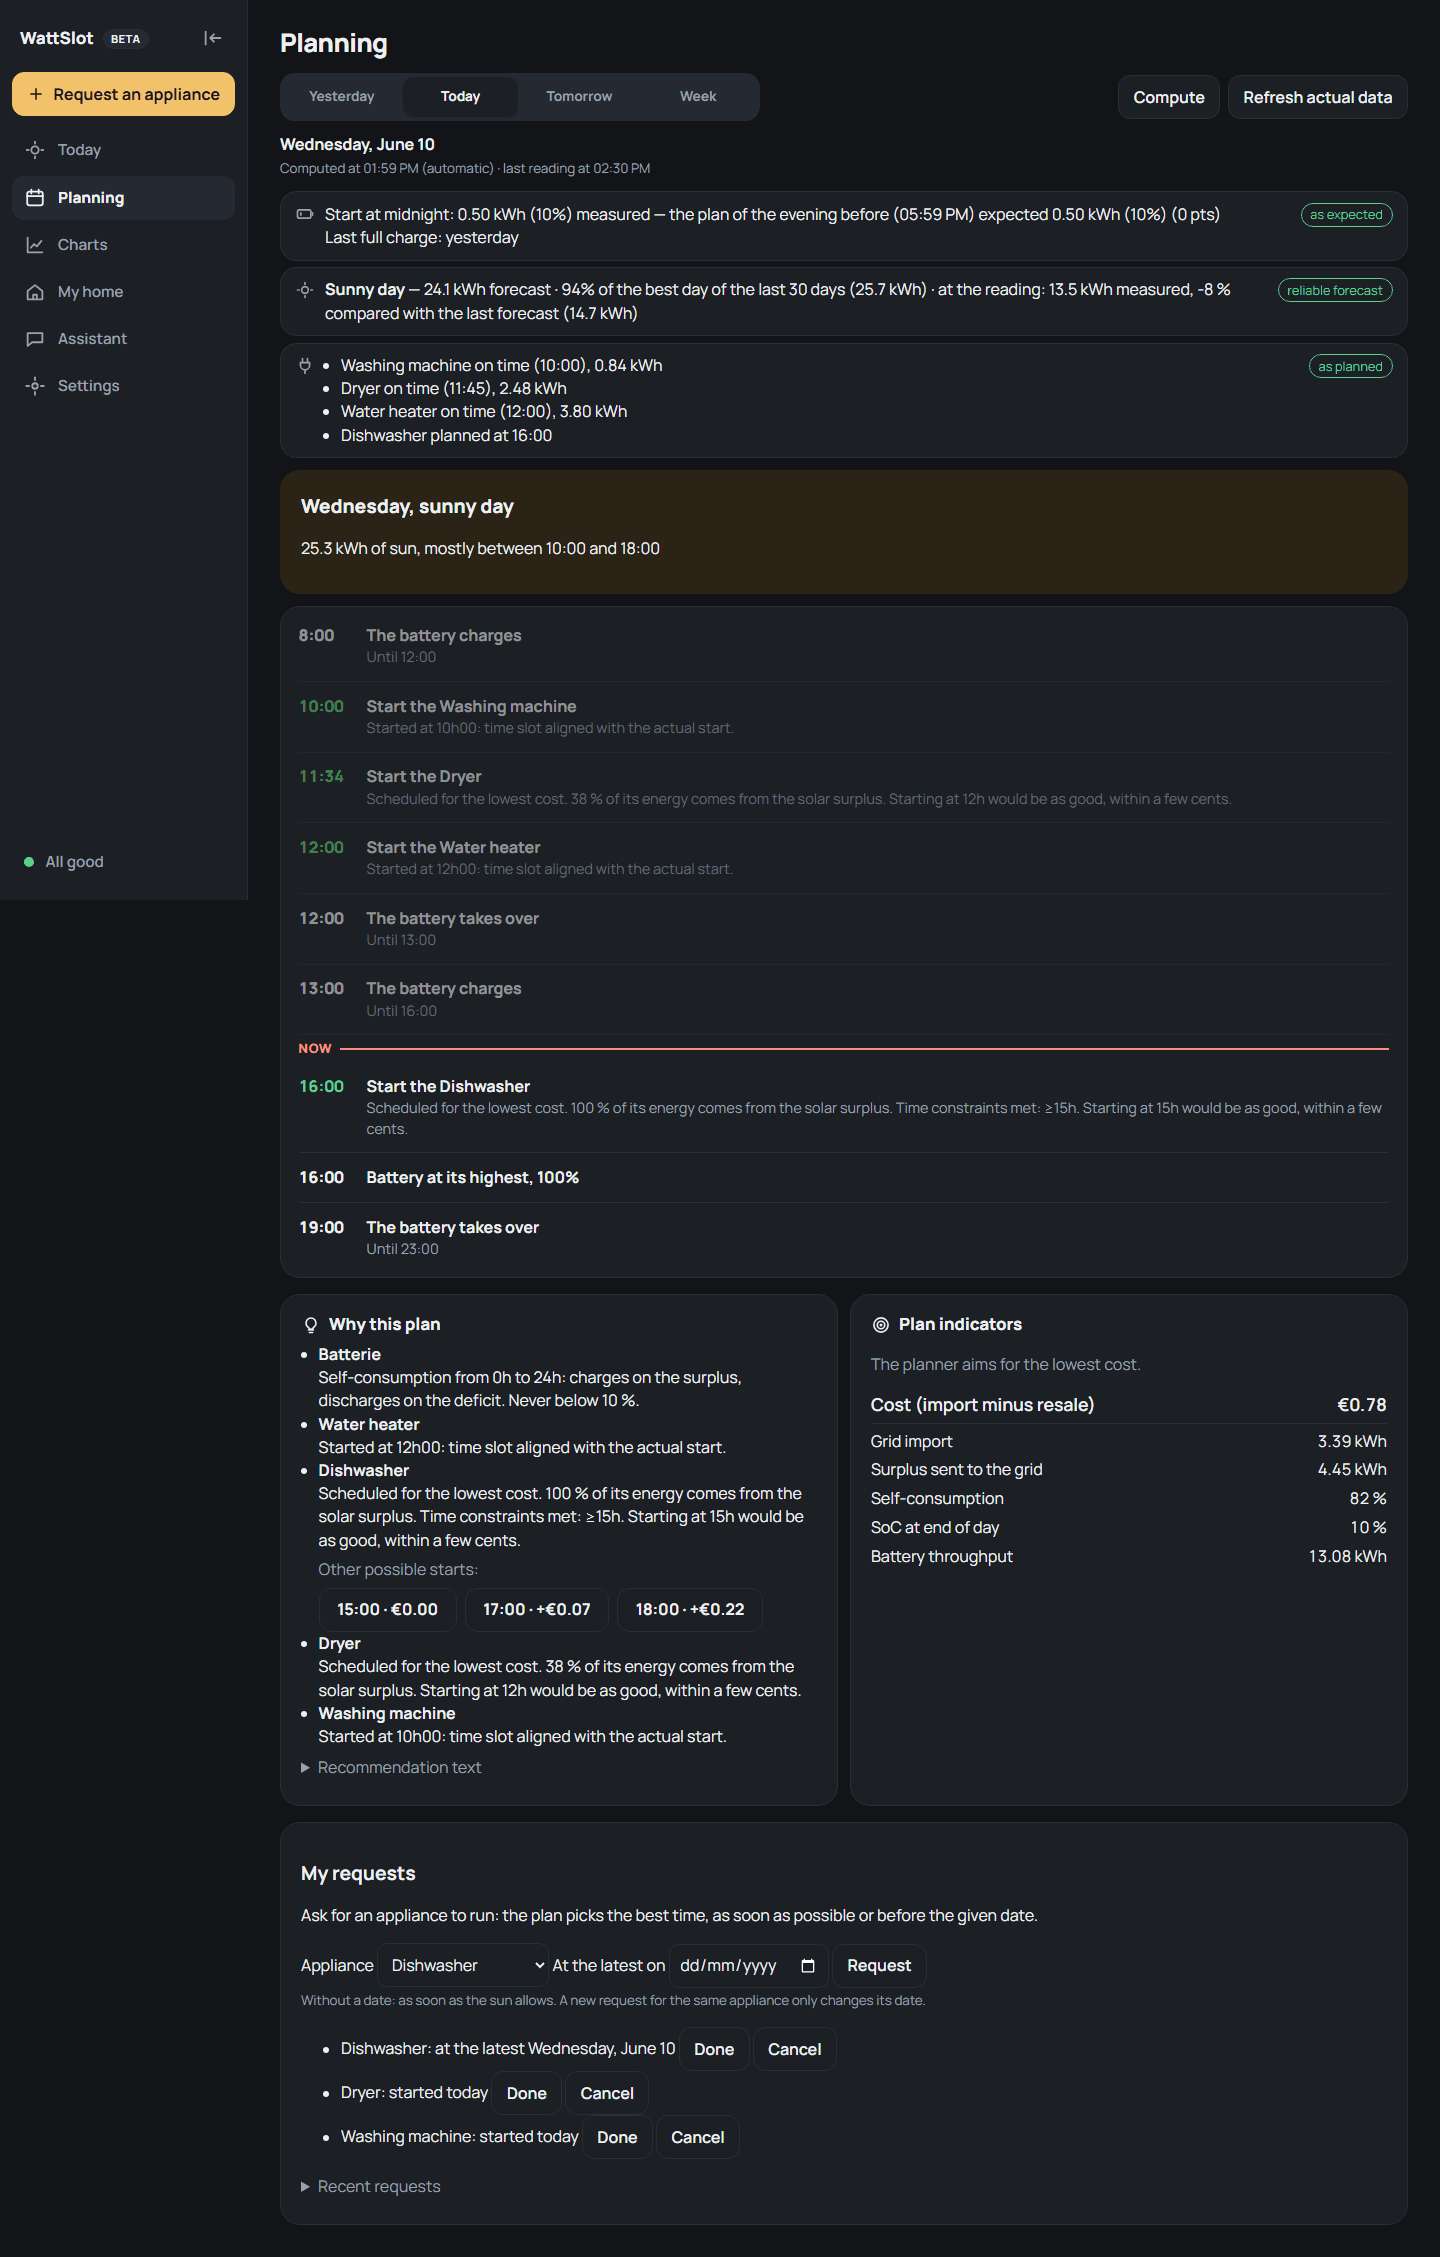
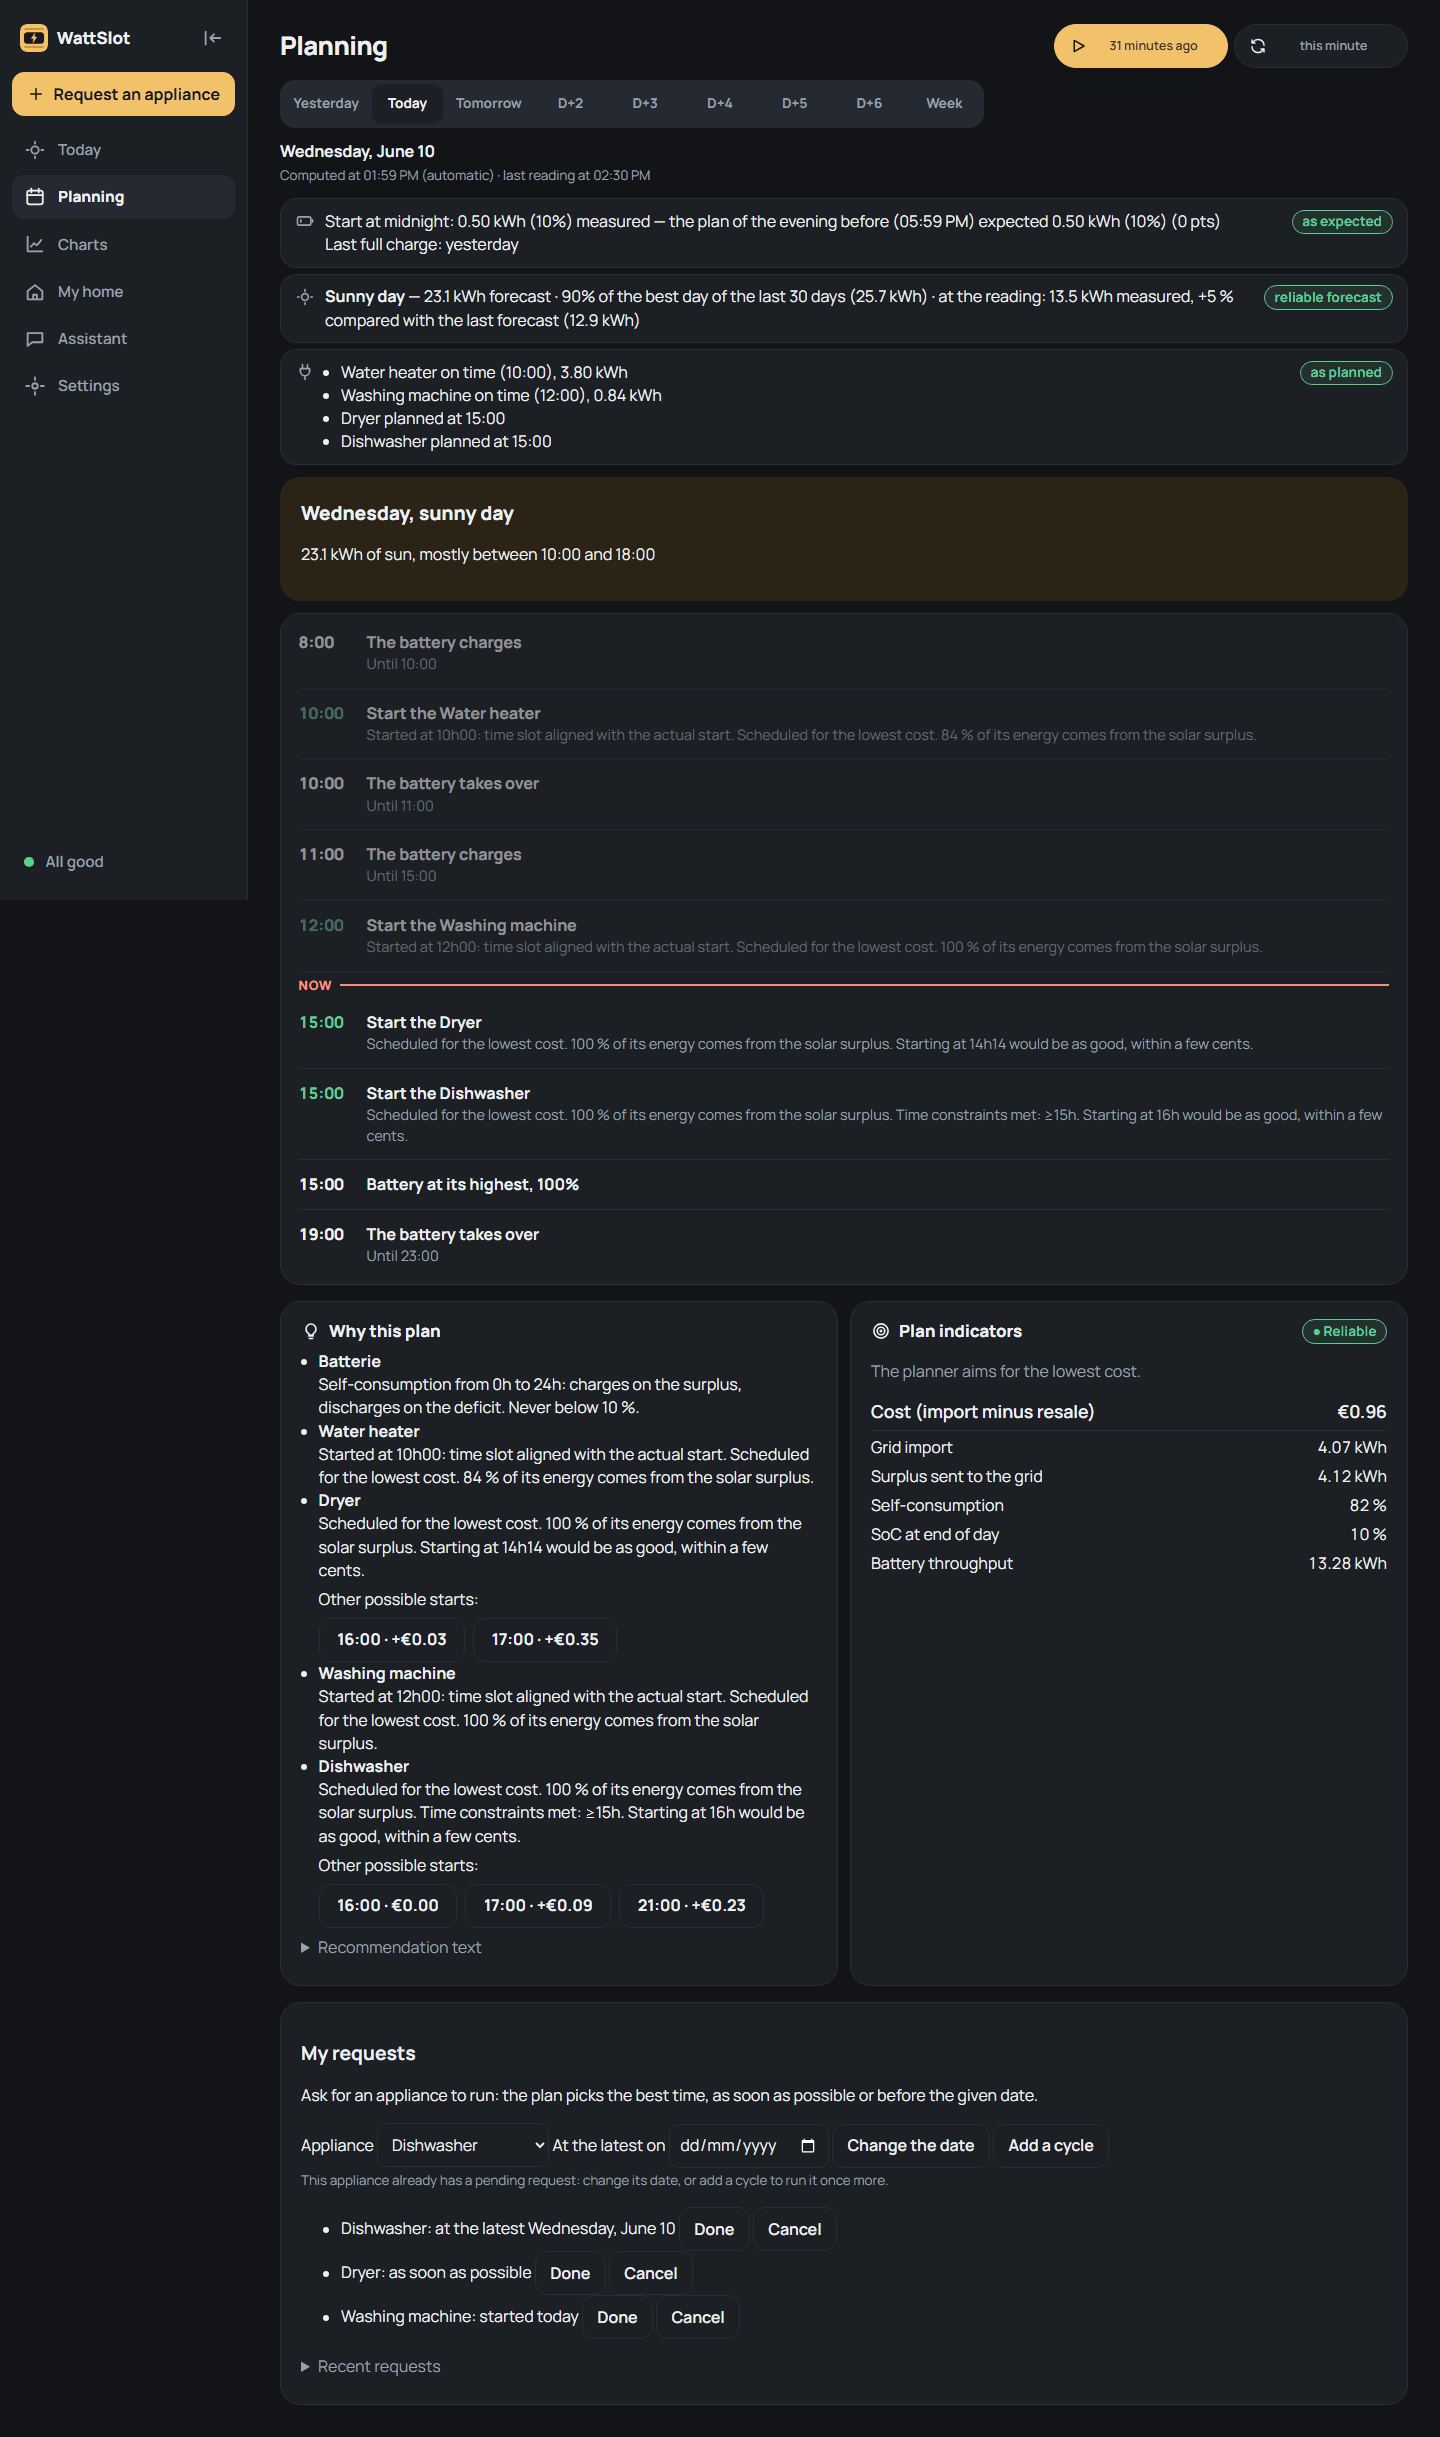
Icône « Créneau inversé » et fin de la mention bêta dans l'identité
Nouvelle icône pour la 1.0.0 : fond doré, deux pistes du Planning des
équipements, le créneau sombre au centre et un grand éclair doré, lisible
jusqu'à 16 px. Elle remplace l'ancienne dans le favicon, l'icône et le
logo de l'extension Home Assistant (dev/tools/addon_images.py) et les
quatre bannières du dépôt, et apparaît à gauche de « WattSlot » en tête
du menu.

« BETA » disparaît des bannières (et de leur texte alternatif dans les
README) et du menu (badge et texte « nav.beta » des six catalogues).
Captures du guide refaites.

diff --git a/app/frontend/src/styles.css b/app/frontend/src/styles.css
@@ -1864,9 +1864,17 @@ a.ui-setting-row {
   }
 
   .main-menu-brand {
+    display: inline-flex;
+    align-items: center;
+    gap: 0.55rem;
     font-weight: 800;
     font-size: 1.05rem;
     padding-left: 0.5rem;
+  }
+
+  .main-menu-logo {
+    flex: none;
+    border-radius: 0.45rem;
   }
 
   .main-menu ul {
@@ -2649,23 +2657,8 @@ p[role="status"]:not(.state-message) {
   overflow-x: auto;
 }
 
-/* Bêta publique (0.9.1) : étiquette à côté du nom, cartes « Version bêta » et « Soutenir
-   WattSlot » en bas des Réglages. */
-.beta-badge {
-  display: inline-block;
-  margin-left: 0.35rem;
-  padding: 0.05rem 0.45rem;
-  border: 1px solid var(--border);
-  border-radius: 999px;
-  background: var(--surface-alt);
-  font-size: 0.7rem;
-  font-weight: 700;
-  letter-spacing: 0.04em;
-  text-transform: uppercase;
-  vertical-align: middle;
-}
-
-/* « Donner mon avis » : un lien qui a l'air d'un bouton, sans soulignement. */
+/* Cartes « Version bêta » et « Soutenir WattSlot » en bas des Réglages (0.9.1). « Donner mon
+   avis » : un lien qui a l'air d'un bouton, sans soulignement. */
 .beta-cards a.ui-button {
   text-decoration: none;
 }

diff --git a/app/frontend/src/nav/MainMenu.tsx b/app/frontend/src/nav/MainMenu.tsx
@@ -25,7 +25,9 @@ export default function MainMenu({ route, collapsed, onToggle, top, bottom }: Ma
     <nav className="main-menu" aria-label={t("nav.main")}>
       <div className="main-menu-head">
         <span className="main-menu-brand">
-          {t("app.title")} <span className="beta-badge">{t("nav.beta")}</span>
+          {/* L'icône de l'application (le favicon, adresse relative pour l'ingress de HA). */}
+          <img className="main-menu-logo" src="favicon.svg" alt="" width={28} height={28} />
+          {t("app.title")}
         </span>
         <button
           type="button"

diff --git a/dev/tools/addon_images.py b/dev/tools/addon_images.py
@@ -1,10 +1,10 @@
 """Icône et logo de l'extension Home Assistant (lots 6t.3 et 7.1).
 
-Motif « Créneau » de WattSlot (choisi le 18/10/2026, comme le favicon
-``app/frontend/public/favicon.svg``) : les pistes du Planning des équipements, un créneau doré mis
-en avant et un éclair. ``icon.png`` (128 x 128) : le carré du favicon ; ``logo.png`` (250 x 100) :
-le même motif en long. Couleurs du thème Ivoire (``app/frontend/src/theme/themes.css``), fond
-sombre lisible sur les thèmes clair et sombre de HA. Dessin vectoriel simple, sans dépendance
+Motif « Créneau inversé » de WattSlot (choisi le 14/11/2026 pour la 1.0.0, comme le favicon
+``app/frontend/public/favicon.svg`` et les bannières de ``docs/images/``) : fond doré, deux
+pistes du Planning des équipements, le créneau sombre mis en avant et un grand éclair doré.
+``icon.png`` (128 x 128) : le carré du favicon ; ``logo.png`` (250 x 100) : le même motif en long.
+Le fond doré ressort sur les thèmes clair et sombre de HA. Dessin vectoriel simple, sans dépendance
 (pas de Pillow) : suréchantillonnage 4 x 4 puis moyenne, PNG écrit avec ``zlib``.
 
 Depuis ``dev/`` : ``python -m tools.addon_images``.
@@ -15,9 +15,9 @@ import zlib
 from collections.abc import Callable
 from pathlib import Path
 
-TILE = (0x17, 0x19, 0x1C)  # fond sombre du favicon
-TRACK = (0x3A, 0x3D, 0x43)  # pistes du Planning des équipements
-GOLD = (0xF2, 0xC2, 0x6B)  # créneau mis en avant (--accent du thème Graphite)
+GOLD = (0xF2, 0xC2, 0x6B)  # fond et éclair (--accent du thème Graphite)
+TRACK = (0xC9, 0x9A, 0x45)  # pistes du Planning des équipements, sur le fond doré
+SLOT = (0x17, 0x19, 0x1C)  # créneau mis en avant, sombre
 SAMPLES = 4  # par côté de pixel
 ADDON = Path(__file__).resolve().parents[2] / "ha-addon" / "wattslot"
 
@@ -51,10 +51,10 @@ def polygon(points: list[tuple[float, float]]) -> Shape:
     return inside
 
 
-def bolt(x: float, y: float, scale: float) -> Shape:
-    """Éclair du favicon (``M36 27.5l-5 6h3.5l-1.5 3.5 5-6h-3.5z``), placé en ``x``, ``y``."""
-    path = [(36, 27.5), (31, 33.5), (34.5, 33.5), (33, 37), (38, 31), (34.5, 31)]
-    return polygon([(x + (px - 31) * scale, y + (py - 27.5) * scale) for px, py in path])
+def bolt(cx: float, cy: float, scale: float) -> Shape:
+    """Éclair du favicon (grille de 64, centré en 32, 32), centré en ``cx``, ``cy``."""
+    path = [(36, 6), (17, 35), (30, 35), (26, 58), (47, 26), (34, 26)]
+    return polygon([(cx + (px - 32) * scale, cy + (py - 32) * scale) for px, py in path])
 
 
 def render(width: int, height: int, layers: list[Layer]) -> bytes:
@@ -101,21 +101,20 @@ def icon() -> list[Layer]:
     """Le favicon (64 x 64) à l'échelle 2."""
     k = 2.0
     return [
-        (rounded_rect(0, 0, 64 * k, 64 * k, 14 * k), TILE),
-        *((rounded_rect(12 * k, y * k, 40 * k, 6 * k, 3 * k), TRACK) for y in (16, 29, 42)),
-        (rounded_rect(26 * k, 26 * k, 18 * k, 12 * k, 4 * k), GOLD),
-        (bolt(31 * k, 27.5 * k, k), TILE),
+        (rounded_rect(0, 0, 64 * k, 64 * k, 14 * k), GOLD),
+        *((rounded_rect(9 * k, y * k, 46 * k, 5 * k, 2.5 * k), TRACK) for y in (9, 50)),
+        (rounded_rect(9 * k, 19 * k, 46 * k, 26 * k, 8 * k), SLOT),
+        (bolt(32 * k, 32 * k, 0.42 * k), GOLD),
     ]
 
 
 def logo() -> list[Layer]:
-    """Le même motif en long : trois pistes, le créneau doré sur celle du milieu."""
-    k = 3.0  # échelle de l'éclair
+    """Le même motif en long : deux pistes, le créneau sombre entre elles."""
     return [
-        (rounded_rect(0, 0, 250, 100, 22), TILE),
-        *((rounded_rect(22, y, 206, 12, 6), TRACK) for y in (19, 44, 69)),
-        (rounded_rect(104, 32, 64, 36, 10), GOLD),
-        (bolt(136 - 3.5 * k, 50 - 4.75 * k, k), TILE),
+        (rounded_rect(0, 0, 250, 100, 22), GOLD),
+        *((rounded_rect(20, y, 210, 9, 4.5), TRACK) for y in (12, 79)),
+        (rounded_rect(20, 30, 210, 40, 12), SLOT),
+        (bolt(125, 50, 0.68), GOLD),
     ]
 
 

diff --git a/README.fr.md b/README.fr.md
@@ -1,7 +1,7 @@
 <p align="center">
   <picture>
     <source media="(prefers-color-scheme: dark)" srcset="docs/images/banner-fr-dark.svg">
-    <img src="docs/images/banner-fr-light.svg" alt="WattSlot, bêta : le bon moment pour lancer vos appareils, avec ou sans panneaux solaires." width="100%">
+    <img src="docs/images/banner-fr-light.svg" alt="WattSlot : le bon moment pour lancer vos appareils, avec ou sans panneaux solaires." width="100%">
   </picture>
 </p>
 

diff --git a/README.md b/README.md
@@ -1,7 +1,7 @@
 <p align="center">
   <picture>
     <source media="(prefers-color-scheme: dark)" srcset="docs/images/banner-en-dark.svg">
-    <img src="docs/images/banner-en-light.svg" alt="WattSlot, beta: the right time to run your appliances, with or without solar panels." width="100%">
+    <img src="docs/images/banner-en-light.svg" alt="WattSlot: the right time to run your appliances, with or without solar panels." width="100%">
   </picture>
 </p>
 
